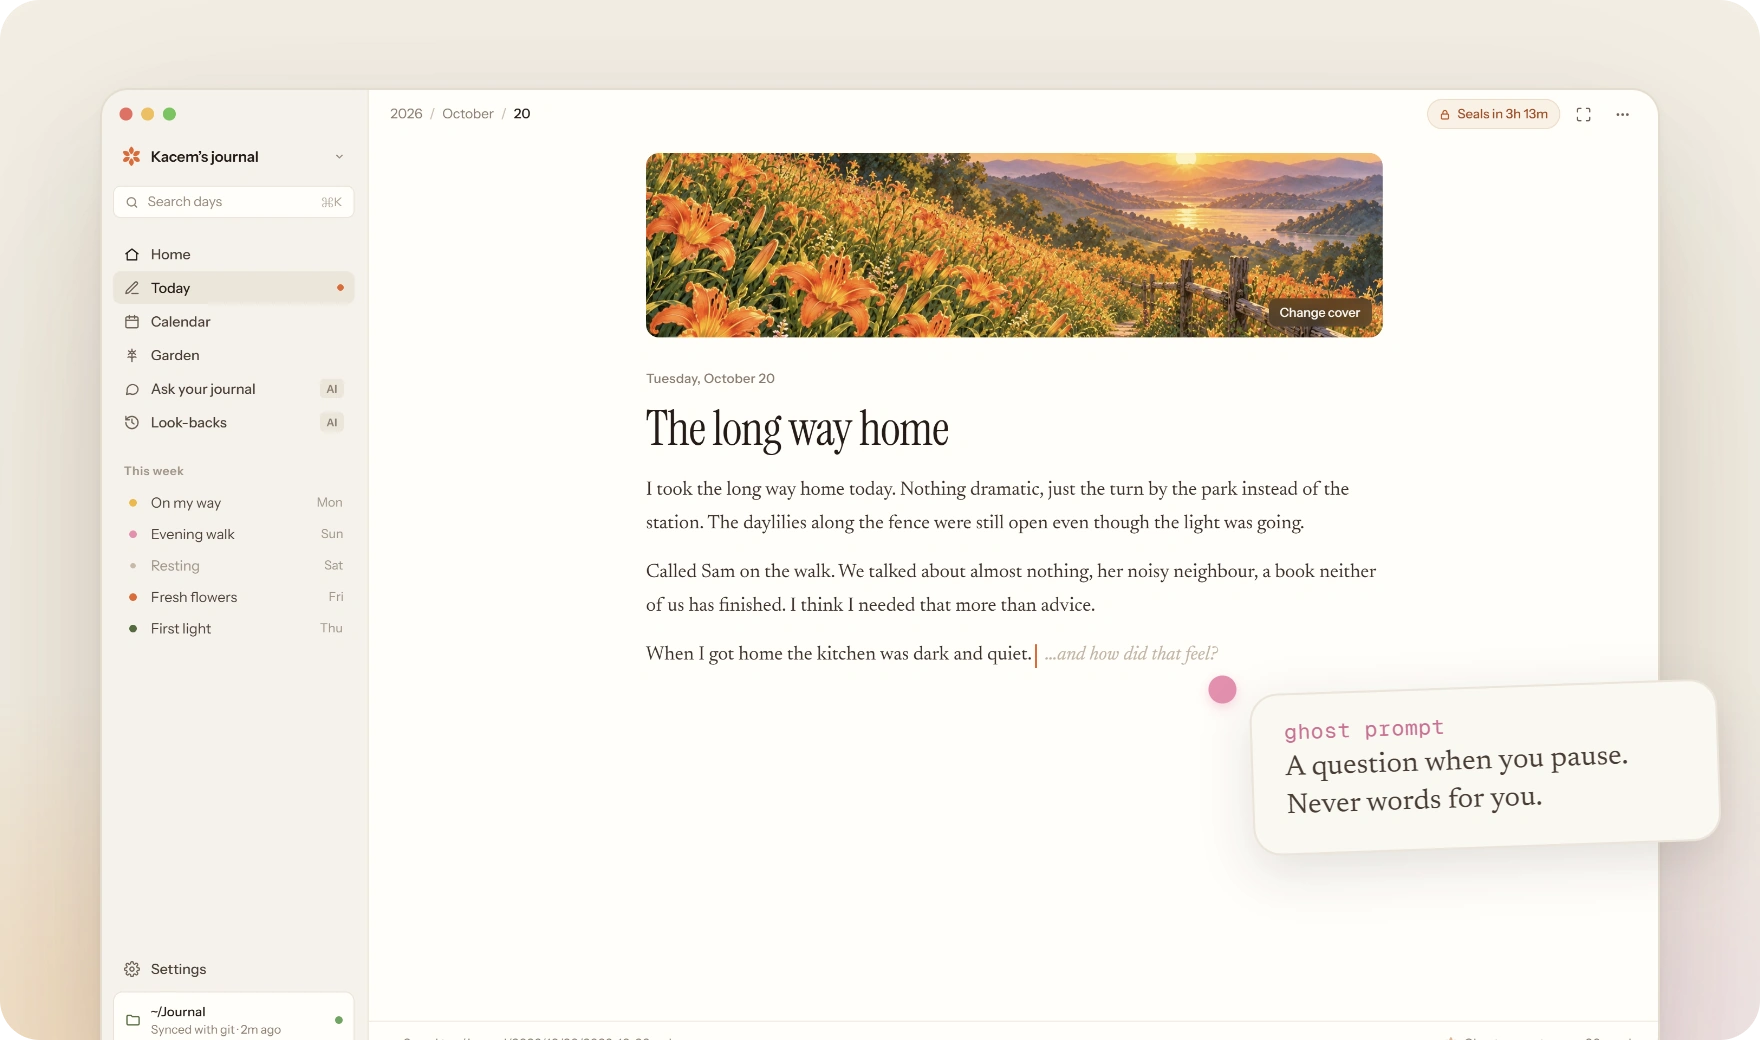
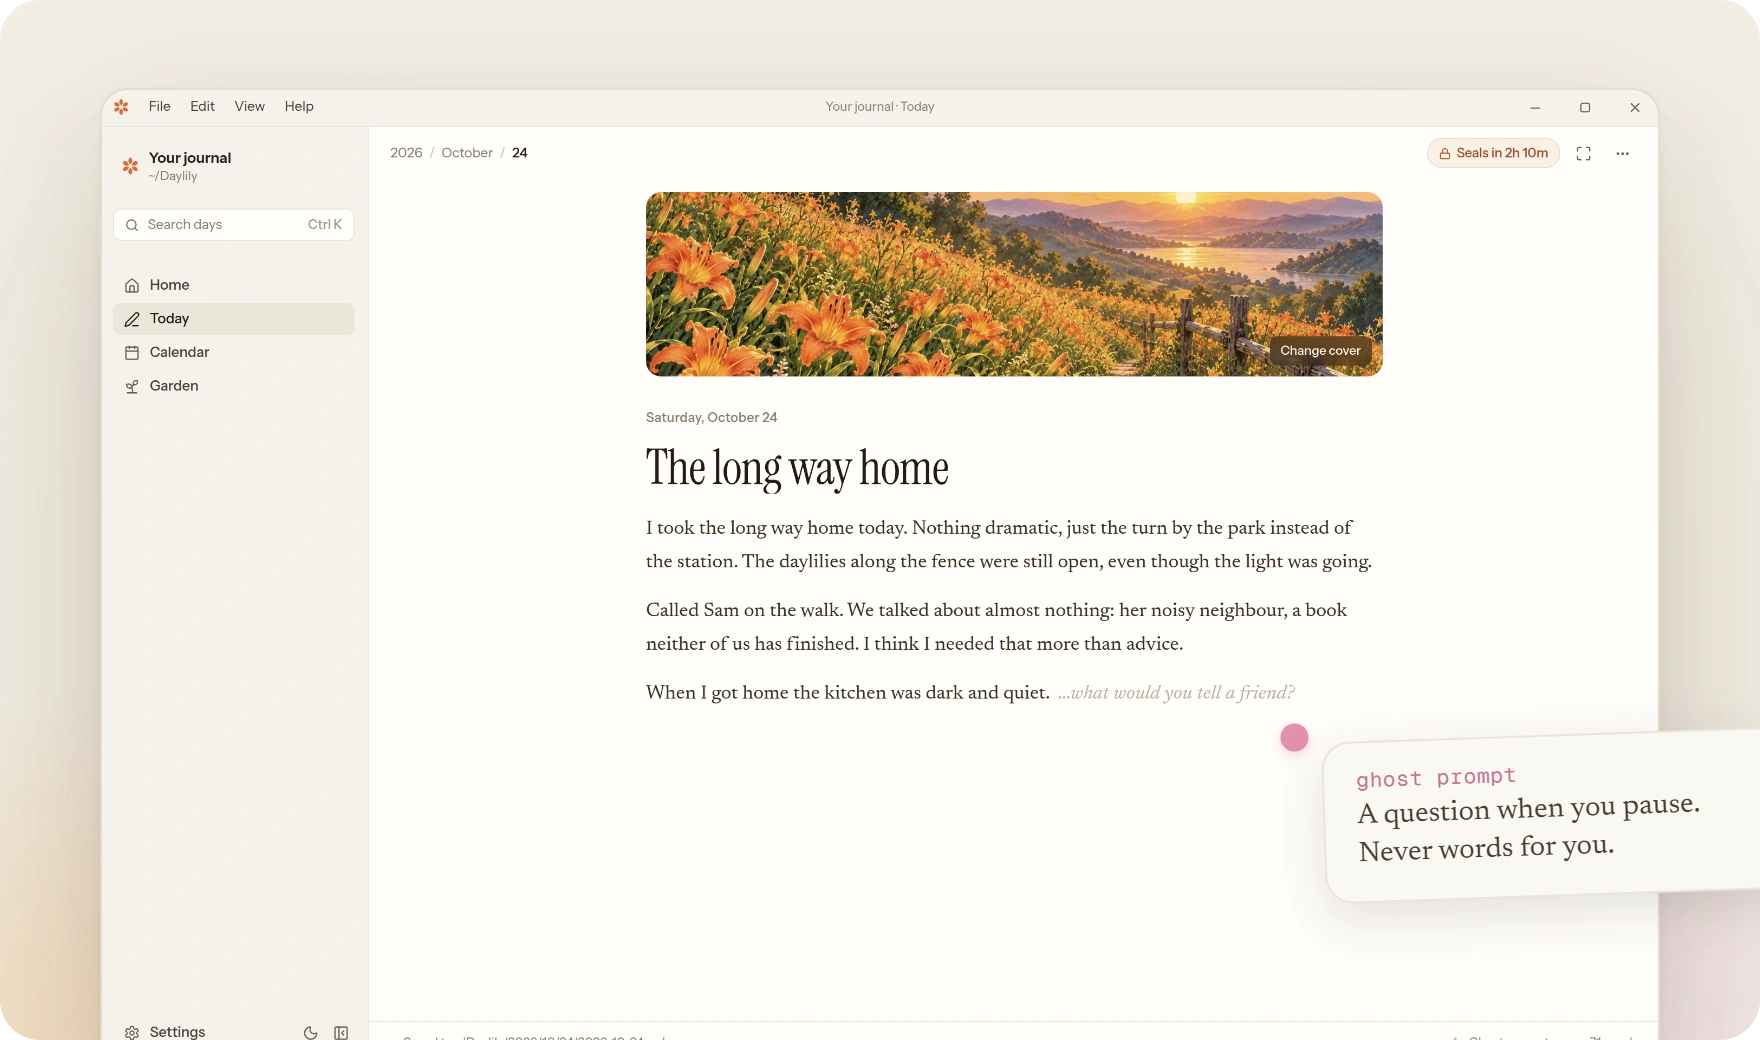
docs: a real screenshot of the app in the readme

diff --git a/README.md b/README.md
@@ -23,7 +23,7 @@ Today is the only page you can write. At 4am it seals, honest and unedited, and 
 days are plain markdown files in a folder you own.
 
 <p align="center">
-  <img alt="Daylily's writing screen: today's page with a cover, a title and a few paragraphs, and a faint question at the end of the last line: …and how did that feel?" src=".github/readme/app.webp" width="880">
+  <img alt="Daylily's writing screen: today's page, The long way home, with a cover of daylilies on a hillside at sunset, three short paragraphs, and a faint question at the end of the last line: …what would you tell a friend?" src=".github/readme/app.webp" width="880">
 </p>
 
 <p align="center">
